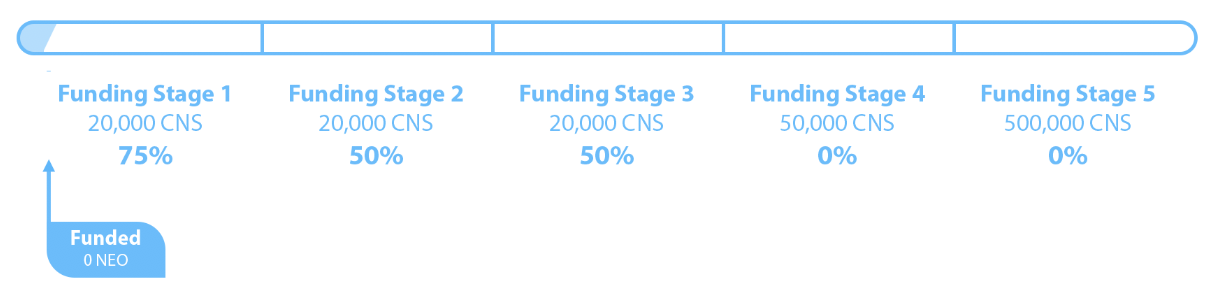
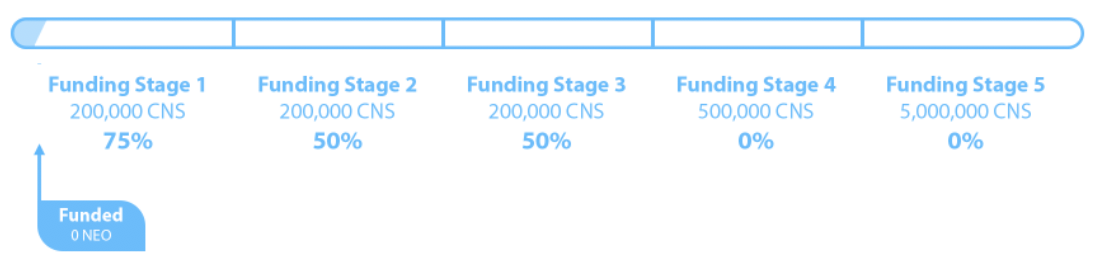
Fixed supply to 10mill

diff --git a/README.md b/README.md
@@ -8,7 +8,7 @@
 <br>
 <br>
 
-## Pre-Release Version: 0.4.0
+## Pre-Release Version: 0.5.0
 
 <!-- <p align="center">
   <img
